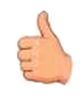
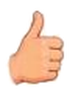
E por piezas: manos en su lado y codo y hombro redondeados
Claude-Session: https://claude.ai/code/session_01CNkQy23Bon4aNcT4Rd2BkE

Changed region(s): [[0.0741, 0.0918, 0.9136, 0.8878], [0.5432, 0.6429, 0.5679, 0.6735], [0.4198, 0.6429, 0.4444, 0.6735]]

diff --git a/tools/split_parts.py b/tools/split_parts.py
@@ -29,8 +29,8 @@ JOINTS = {
     'pelvis': [450, 812],
     'hip_l': [385, 812], 'knee_l': [362, 946], 'ankle_l': [338, 1058],
     'hip_r': [512, 812], 'knee_r': [510, 946], 'ankle_r': [518, 1058],
-    'shoulder_l': [322, 532], 'elbow_l': [292, 648], 'wrist_l': [338, 746],
-    'shoulder_r': [586, 532], 'elbow_r': [614, 648], 'wrist_r': [564, 750],
+    'shoulder_l': [320, 548], 'elbow_l': [302, 650], 'wrist_l': [338, 746],
+    'shoulder_r': [588, 548], 'elbow_r': [597, 648], 'wrist_r': [564, 750],
 }
 
 # the arms in the drawing (hands in the pockets): outline of each sleeve, and the elbow crease that splits it
@@ -49,7 +49,8 @@ HEM = 766                                                           # bottom of 
 HOODIE_LINE = np.array([92, 20, 22.0])
 
 # hands from the MANOS row of the character sheet (E_data_sheet.jpg, 853x1280): box, wrist, and the direction
-# wrist -> knuckles in degrees (image coords, y down). They are E's left hand; the right one is the mirror.
+# wrist -> knuckles in degrees (image coords, y down). They are E's right hand (on the
+# left of the screen); the other one is the mirror.
 SHEET = 'source/e-sheet.jpg'
 HANDS = {
     'abierta': {'box': (20, 701, 86, 775), 'wrist': (52, 768), 'dir': -90},
@@ -112,13 +113,32 @@ def cut_hands(out, meta):
         img = Image.fromarray(np.dstack([crop, al]).astype(np.uint8), 'RGBA')
         img = img.resize((round(img.width * HAND_SCALE), round(img.height * HAND_SCALE)), Image.LANCZOS)
         wx, wy = (h['wrist'][0] - x0) * HAND_SCALE, (h['wrist'][1] - y0) * HAND_SCALE
-        for side in ('r', 'l'):
-            piece = img if side == 'r' else img.transpose(Image.FLIP_LEFT_RIGHT)
-            px = wx if side == 'r' else piece.width - wx
-            d = h['dir'] if side == 'r' else 180 - h['dir']
+        for side in ('l', 'r'):
+            piece = img if side == 'l' else img.transpose(Image.FLIP_LEFT_RIGHT)
+            px = wx if side == 'l' else piece.width - wx
+            d = h['dir'] if side == 'l' else 180 - h['dir']
             piece.save(os.path.join(out, f'hand_{name}_{side}.png'), optimize=True)
             meta['pieces'][f'hand_{name}_{side}'] = {'x': 0, 'y': 0}
             meta['hands'][f'{name}_{side}'] = {'wrist': [px, wy], 'dir': d}
+
+
+def capsule(rgb, core, ends):
+    """A segment of sleeve: its pixels (core) plus a round end at each joint (ring: squared distance to the joint,
+    radius). The round ends are filled from the sleeve around them and get the hoodie's outline on their rim."""
+    disks = np.zeros_like(core)
+    rims = np.zeros_like(core)
+    for ring, rad in ends:
+        disks |= ring <= rad ** 2
+        rims |= (ring <= rad ** 2) & (ring >= (rad - 3) ** 2)
+    ys, xs = np.where(disks | core)
+    sl = (slice(ys.min() - 2, ys.max() + 3), slice(xs.min() - 2, xs.max() + 3))
+    fill = rgb.copy()
+    hole = disks & ~core
+    fill[sl] = harmonic(rgb[sl], hole[sl], core[sl], iters=500)
+    fill[rims & ~core] = HOODIE_LINE
+    ca = soft(core, 0.7)
+    out_rgb = rgb * ca[..., None] + fill * (1 - ca[..., None])
+    return out_rgb, np.maximum(ca, soft(disks, 0.7))
 
 
 def arms(rgb, alpha, torso_a, xx, yy):
@@ -136,23 +156,20 @@ def arms(rgb, alpha, torso_a, xx, yy):
         ex, ey = JOINTS['elbow_' + side]
         sx, sy = JOINTS['shoulder_' + side]
         polys = soft(poly, 0.8)
-        # upper arm (the torso keeps a round shoulder under it, so the joint never opens)
-        up = alpha * polys * soft(yy < crease, 1.0)
         sring = (xx - sx) ** 2 + (yy - sy) ** 2
+        ering = (xx - ex) ** 2 + (yy - ey) ** 2
         # the cut side of the sleeve (inside the drawing) gets the hoodie's outline, like the outer side has
         inner = grow(~poly, 2) & poly & (alpha > 0.5) & ~grow(alpha < 0.3, 4)
         k = soft(inner, 0.6)[..., None] * 0.9
-        pieces['upperarm_' + side] = (rgb * (1 - k) + HOODIE_LINE * k, up)
-        # forearm, with the elbow disk
-        ering = (xx - ex) ** 2 + (yy - ey) ** 2
-        erad = 30
+        lined = rgb * (1 - k) + HOODIE_LINE * k
         r, g, b = rgb[..., 0], rgb[..., 1], rgb[..., 2]
         skin_all = (r > 190) & (g > 120) & (b > 80) & (r - b > 50) & (g - b > 15) & (yy > 720)
-        fa = alpha * polys * soft((yy >= crease) | (ering <= (erad - 2) ** 2), 1.0) * (1 - soft(grow(skin_all, 1), 0.8))
-        disk_rgb = np.where((ering >= (erad - 3) ** 2)[..., None], HOODIE_LINE, sleeve)
-        fa_rgb = rgb * (1 - k) + HOODIE_LINE * k
-        fa_rgb = fa_rgb * fa[..., None] + disk_rgb * (1 - fa[..., None])
-        pieces['forearm_' + side] = (fa_rgb, np.maximum(fa, soft(ering <= erad ** 2, 0.8)))
+        # each segment ends round at its joints (a disk as wide as the sleeve there), so nothing opens or pokes
+        # out when the arm bends: the disk is filled from the sleeve itself and outlined where it shows
+        up_core = poly & (alpha > 0.5) & (yy < crease)
+        fa_core = poly & (alpha > 0.5) & (yy >= crease) & ~grow(skin_all, 1)
+        pieces['upperarm_' + side] = capsule(lined, up_core, [(sring, 24), (ering, 42)])
+        pieces['forearm_' + side] = capsule(lined, fa_core, [(ering, 42)])
         # torso: the sleeve out but a round shoulder (it stays, under the arm); the new side gets the outline.
         # 3 px more than the sleeve, so no light rim of the old arm is left around the hoodie
         removed = grow(poly, 3) & (sring > 50 ** 2) & (yy > JOINTS['shoulder_' + side][1] - 10)
